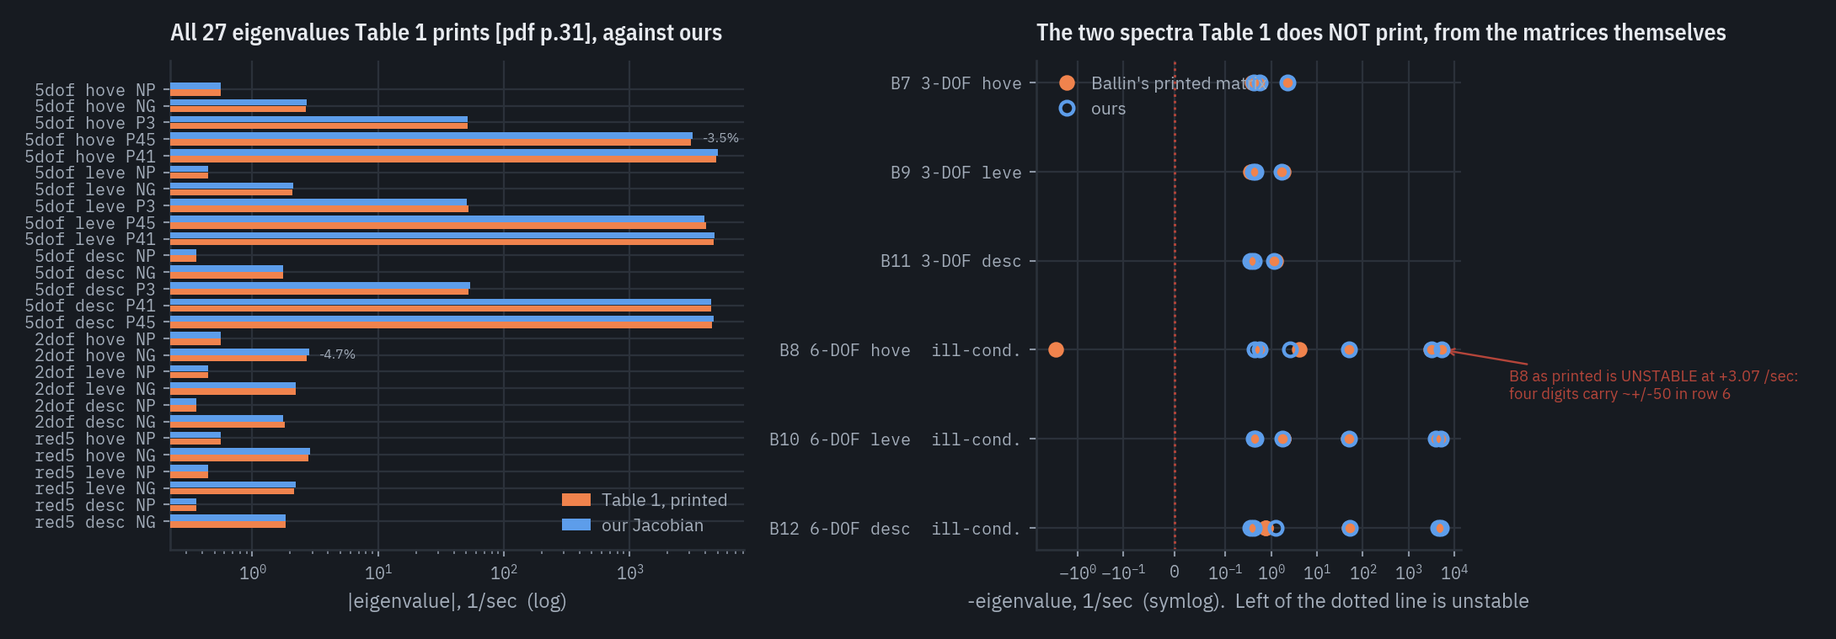
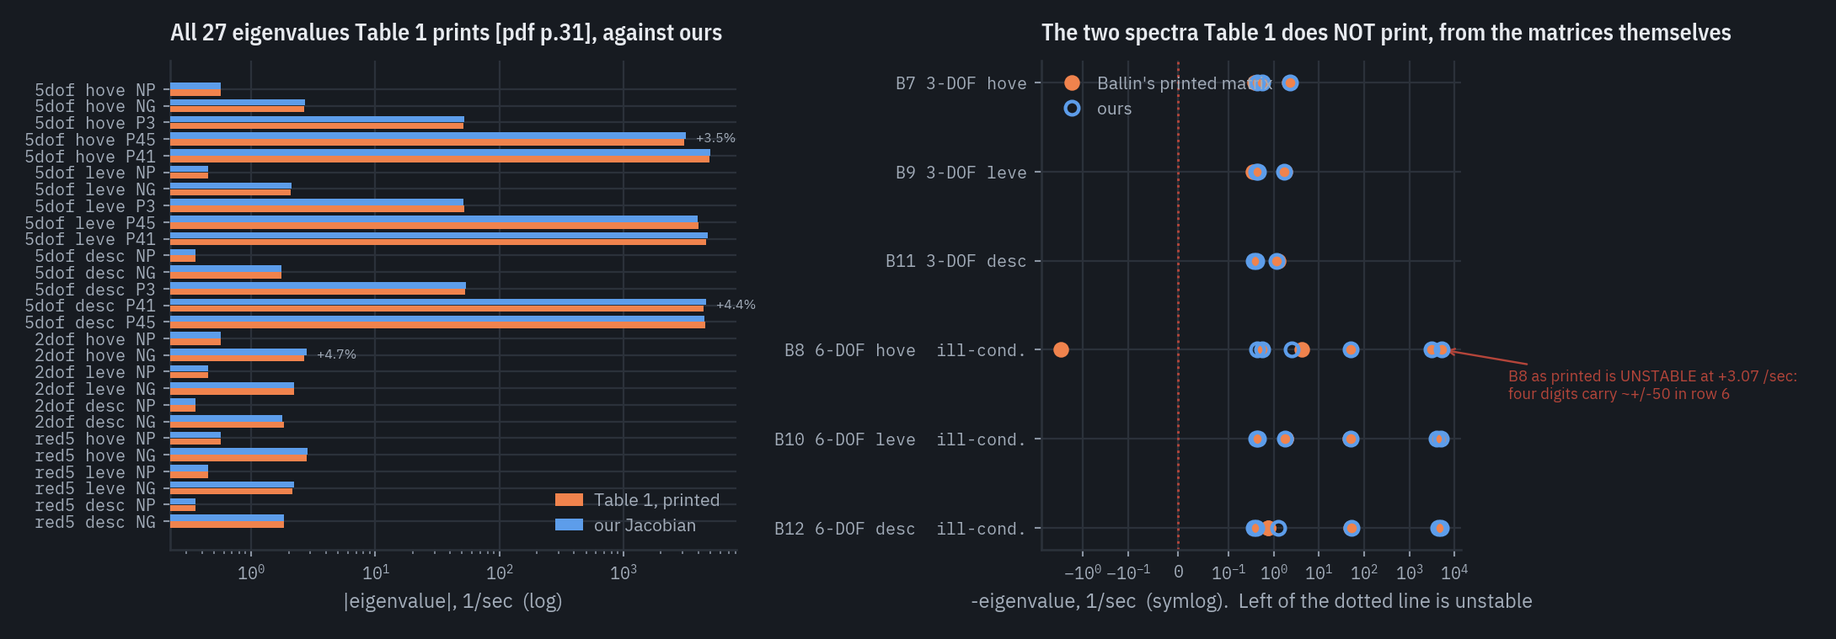
each comparison at the speed the paper gives it; Table 1 paired by dominant state, all 27 modes tested
Speed, read from the page images: NP_des = 20900 (Table A.1, pdf p.55) for
Figures 6-8 (#35) and 9-10 ("trim the power turbine at the design speed",
pdf p.39); 20895 (Table B.1, pdf p.67) for Table B.1, Table 1 and Appendix B.
- the GE-model comparison on Figures 6-8 moves to NP_des (NP_GE_RPM goes)
- report.py's Table 1 and Appendix B use test_all_dof_models._model, the
  20895 models the tests use, instead of solving at NP_des themselves

Table 1 on the site was paired by position in a sorted spectrum, which
tests/test_linear forbids. It now pairs by dominant state (shared
participation(), also used by test_discrete_map), with the tests' sign
convention. New test_every_printed_table_1_mode asserts all 27 printed modes
within EIGENVALUE_TOL_PCT, so SCOPE's 27-mode row is now true by test.

Site: Table 1 rms 1.75 -> 1.94 %, worst 4.70 % unchanged (sign now the
tests'); Appendix B A rms 6.262 -> 6.262, b 6.408 -> 6.405. Model checksum
identical; suite passes.

Claude-Session: https://claude.ai/code/session_01RjvrKad8gE6F4A3xardmyd

diff --git a/site/index.html b/site/index.html
@@ -589,7 +589,7 @@ the metering valve:  WFMV = HMUSEL &times; PS3L.</div>
   <div class="scroll"><table>
     <thead><tr><th scope="col">Comparison</th><th scope="col">rms %</th>
       <th scope="col">mean %</th><th scope="col">worst %</th><th scope="col"></th></tr></thead>
-    <tbody><tr><th scope="row">Table B.1, the printed engine state<span class="sub">21 numbers</span></th><td class="mono">0.222</td><td class="mono">-0.087</td><td class="mono strong">-0.806</td><td class="note">worst SHP &minus;0.81 % at descent</td></tr><tr><th scope="row">Table 1, printed eigenvalues<span class="sub">27 modes</span></th><td class="mono">1.754</td><td class="mono">-0.552</td><td class="mono strong">-4.701</td><td class="note">worst &minus;4.7 % on the 2-DOF NG mode at hover</td></tr><tr><th scope="row">Appendix B, matrix A<span class="sub">158 non-zero</span></th><td class="mono">6.262</td><td class="mono">-0.356</td><td class="mono strong">-33.749</td><td class="note">every one of the 206 non-zero elements is compared</td></tr><tr><th scope="row">Appendix B, fuel column b<span class="sub">42 non-zero</span></th><td class="mono">6.408</td><td class="mono">-1.337</td><td class="mono strong">24.299</td><td class="note">the 6-DOF half carries the heat sink's deficit</td></tr><tr><th scope="row">Closed loop against Table B.1<span class="sub">15 numbers</span></th><td class="mono">0.081</td><td class="mono">0.020</td><td class="mono strong">0.245</td><td class="note">fuel flow is an <em>output</em> here, not an input</td></tr></tbody>
+    <tbody><tr><th scope="row">Table B.1, the printed engine state<span class="sub">21 numbers</span></th><td class="mono">0.222</td><td class="mono">-0.087</td><td class="mono strong">-0.806</td><td class="note">worst SHP &minus;0.81 % at descent</td></tr><tr><th scope="row">Table 1, printed eigenvalues<span class="sub">27 modes</span></th><td class="mono">1.937</td><td class="mono">0.558</td><td class="mono strong">4.701</td><td class="note">worst +4.7 % on the 2-DOF NG mode at hover</td></tr><tr><th scope="row">Appendix B, matrix A<span class="sub">158 non-zero</span></th><td class="mono">6.262</td><td class="mono">-0.354</td><td class="mono strong">-33.749</td><td class="note">every one of the 206 non-zero elements is compared</td></tr><tr><th scope="row">Appendix B, fuel column b<span class="sub">42 non-zero</span></th><td class="mono">6.405</td><td class="mono">-1.330</td><td class="mono strong">24.299</td><td class="note">the 6-DOF half carries the heat sink's deficit</td></tr><tr><th scope="row">Closed loop against Table B.1<span class="sub">15 numbers</span></th><td class="mono">0.081</td><td class="mono">0.020</td><td class="mono strong">0.245</td><td class="note">fuel flow is an <em>output</em> here, not an input</td></tr></tbody>
   </table></div>
   <div class="legend">
     <span><i class="swatch" style="background:var(--ours)"></i>our model</span>
@@ -618,7 +618,7 @@ the metering valve:  WFMV = HMUSEL &times; PS3L.</div>
     <thead><tr><th scope="col">Model</th><th scope="col">Trim</th><th scope="col">Mode</th>
       <th scope="col">printed 1/s</th><th scope="col">ours 1/s</th>
       <th scope="col">deviation %</th></tr></thead>
-    <tbody><tr><td>5-DOF</td><td>hover</td><td class="mono">NP</td><td class="mono">-0.565</td><td class="mono">-0.565</td><td class="mono dev">+0.01<span class="bar"><i class="pos" style="left:50%;width:0.018758873018626814%"></i></span></td></tr><tr><td>5-DOF</td><td>hover</td><td class="mono">NG</td><td class="mono">-2.66</td><td class="mono">-2.691</td><td class="mono dev">-1.18<span class="bar"><i class="neg" style="left:46.08155520486806%;width:3.9184447951319408%"></i></span></td></tr><tr><td>5-DOF</td><td>hover</td><td class="mono">P3</td><td class="mono">-51.6</td><td class="mono">-51.7</td><td class="mono dev">-0.19<span class="bar"><i class="neg" style="left:49.373238863723394%;width:0.6267611362766063%"></i></span></td></tr><tr><td>5-DOF</td><td>hover</td><td class="mono">P45</td><td class="mono">-3,060</td><td class="mono">-3,166</td><td class="mono dev">-3.47<span class="bar"><i class="neg" style="left:38.41996435137444%;width:11.580035648625563%"></i></span></td></tr><tr><td>5-DOF</td><td>hover</td><td class="mono">P41</td><td class="mono">-4,900</td><td class="mono">-5,007</td><td class="mono dev">-2.18<span class="bar"><i class="neg" style="left:42.72265290363468%;width:7.277347096365318%"></i></span></td></tr><tr><td>5-DOF</td><td>level 80 kt</td><td class="mono">NP</td><td class="mono">-0.446</td><td class="mono">-0.4461</td><td class="mono dev">-0.02<span class="bar"><i class="neg" style="left:49.94722333866804%;width:0.052776661331961974%"></i></span></td></tr><tr><td>5-DOF</td><td>level 80 kt</td><td class="mono">NG</td><td class="mono">-2.08</td><td class="mono">-2.111</td><td class="mono dev">-1.51<span class="bar"><i class="neg" style="left:44.95978613144975%;width:5.04021386855025%"></i></span></td></tr><tr><td>5-DOF</td><td>level 80 kt</td><td class="mono">P3</td><td class="mono">-52.2</td><td class="mono">-50.97</td><td class="mono dev">+2.35<span class="bar"><i class="pos" style="left:50%;width:7.834495283069155%"></i></span></td></tr><tr><td>5-DOF</td><td>level 80 kt</td><td class="mono">P45</td><td class="mono">-4,040</td><td class="mono">-3,948</td><td class="mono dev">+2.28<span class="bar"><i class="pos" style="left:50%;width:7.6072783608335%"></i></span></td></tr><tr><td>5-DOF</td><td>level 80 kt</td><td class="mono">P41</td><td class="mono">-4,640</td><td class="mono">-4,736</td><td class="mono dev">-2.08<span class="bar"><i class="neg" style="left:43.07666710398497%;width:6.923332896015031%"></i></span></td></tr><tr><td>5-DOF</td><td>descent 80 kt</td><td class="mono">NP</td><td class="mono">-0.357</td><td class="mono">-0.3567</td><td class="mono dev">+0.10<span class="bar"><i class="pos" style="left:50%;width:0.31695347223621795%"></i></span></td></tr><tr><td>5-DOF</td><td>descent 80 kt</td><td class="mono">NG</td><td class="mono">-1.75</td><td class="mono">-1.755</td><td class="mono dev">-0.28<span class="bar"><i class="neg" style="left:49.06841811883851%;width:0.9315818811614918%"></i></span></td></tr><tr><td>5-DOF</td><td>descent 80 kt</td><td class="mono">P3</td><td class="mono">-52.6</td><td class="mono">-53.56</td><td class="mono dev">-1.83<span class="bar"><i class="neg" style="left:43.90775465974%;width:6.092245340259997%"></i></span></td></tr><tr><td>5-DOF</td><td>descent 80 kt</td><td class="mono">P41</td><td class="mono">-4,430</td><td class="mono">-4,445</td><td class="mono dev">-0.34<span class="bar"><i class="neg" style="left:48.85939057716919%;width:1.1406094228308106%"></i></span></td></tr><tr><td>5-DOF</td><td>descent 80 kt</td><td class="mono">P45</td><td class="mono">-4,530</td><td class="mono">-4,624</td><td class="mono dev">-2.07<span class="bar"><i class="neg" style="left:43.09674966352933%;width:6.903250336470672%"></i></span></td></tr><tr><td>2-DOF</td><td>hover</td><td class="mono">NP</td><td class="mono">-0.565</td><td class="mono">-0.565</td><td class="mono dev">+0.01<span class="bar"><i class="pos" style="left:50%;width:0.018758873018626814%"></i></span></td></tr><tr><td>2-DOF</td><td>hover</td><td class="mono">NG</td><td class="mono">-2.69</td><td class="mono">-2.816</td><td class="mono dev">-4.70<span class="bar"><i class="neg" style="left:34.328345782046256%;width:15.671654217953748%"></i></span></td></tr><tr><td>2-DOF</td><td>level 80 kt</td><td class="mono">NP</td><td class="mono">-0.446</td><td class="mono">-0.4461</td><td class="mono dev">-0.02<span class="bar"><i class="neg" style="left:49.94722333866804%;width:0.052776661331961974%"></i></span></td></tr><tr><td>2-DOF</td><td>level 80 kt</td><td class="mono">NG</td><td class="mono">-2.23</td><td class="mono">-2.202</td><td class="mono dev">+1.27<span class="bar"><i class="pos" style="left:50%;width:4.228318639295807%"></i></span></td></tr><tr><td>2-DOF</td><td>descent 80 kt</td><td class="mono">NP</td><td class="mono">-0.357</td><td class="mono">-0.3567</td><td class="mono dev">+0.10<span class="bar"><i class="pos" style="left:50%;width:0.3169534722457549%"></i></span></td></tr><tr><td>2-DOF</td><td>descent 80 kt</td><td class="mono">NG</td><td class="mono">-1.82</td><td class="mono">-1.768</td><td class="mono dev">+2.85<span class="bar"><i class="pos" style="left:50%;width:9.51124665659346%"></i></span></td></tr><tr><td>reduced-5</td><td>hover</td><td class="mono">NP</td><td class="mono">-0.565</td><td class="mono">-0.565</td><td class="mono dev">+0.01<span class="bar"><i class="pos" style="left:50%;width:0.018758873018626814%"></i></span></td></tr><tr><td>reduced-5</td><td>hover</td><td class="mono">NG</td><td class="mono">-2.81</td><td class="mono">-2.861</td><td class="mono dev">-1.82<span class="bar"><i class="neg" style="left:43.9200137915478%;width:6.0799862084522%"></i></span></td></tr><tr><td>reduced-5</td><td>level 80 kt</td><td class="mono">NP</td><td class="mono">-0.446</td><td class="mono">-0.4461</td><td class="mono dev">-0.02<span class="bar"><i class="neg" style="left:49.94722333866804%;width:0.052776661331961974%"></i></span></td></tr><tr><td>reduced-5</td><td>level 80 kt</td><td class="mono">NG</td><td class="mono">-2.16</td><td class="mono">-2.206</td><td class="mono dev">-2.11<span class="bar"><i class="neg" style="left:42.97163933992446%;width:7.028360660075543%"></i></span></td></tr><tr><td>reduced-5</td><td>descent 80 kt</td><td class="mono">NP</td><td class="mono">-0.357</td><td class="mono">-0.3567</td><td class="mono dev">+0.10<span class="bar"><i class="pos" style="left:50%;width:0.31695347223621795%"></i></span></td></tr><tr><td>reduced-5</td><td>descent 80 kt</td><td class="mono">NG</td><td class="mono">-1.83</td><td class="mono">-1.833</td><td class="mono dev">-0.14<span class="bar"><i class="neg" style="left:49.53876314734629%;width:0.4612368526537128%"></i></span></td></tr></tbody>
+    <tbody><tr><td>5-DOF</td><td>hover</td><td class="mono">NP</td><td class="mono">-0.565</td><td class="mono">-0.565</td><td class="mono dev">+0.01<span class="bar"><i class="pos" style="left:50%;width:0.027707135832274358%"></i></span></td></tr><tr><td>5-DOF</td><td>hover</td><td class="mono">NG</td><td class="mono">-2.66</td><td class="mono">-2.691</td><td class="mono dev">+1.18<span class="bar"><i class="pos" style="left:50%;width:3.9184447951319408%"></i></span></td></tr><tr><td>5-DOF</td><td>hover</td><td class="mono">P3</td><td class="mono">-51.6</td><td class="mono">-51.7</td><td class="mono dev">+0.19<span class="bar"><i class="pos" style="left:50%;width:0.6267611362766063%"></i></span></td></tr><tr><td>5-DOF</td><td>hover</td><td class="mono">P45</td><td class="mono">-3,060</td><td class="mono">-3,166</td><td class="mono dev">+3.47<span class="bar"><i class="pos" style="left:50%;width:11.580035648625563%"></i></span></td></tr><tr><td>5-DOF</td><td>hover</td><td class="mono">P41</td><td class="mono">-4,900</td><td class="mono">-5,007</td><td class="mono dev">+2.18<span class="bar"><i class="pos" style="left:50%;width:7.277347096365318%"></i></span></td></tr><tr><td>5-DOF</td><td>level 80 kt</td><td class="mono">NP</td><td class="mono">-0.446</td><td class="mono">-0.4461</td><td class="mono dev">+0.03<span class="bar"><i class="pos" style="left:50%;width:0.08846901754094652%"></i></span></td></tr><tr><td>5-DOF</td><td>level 80 kt</td><td class="mono">NG</td><td class="mono">-2.08</td><td class="mono">-2.111</td><td class="mono dev">+1.51<span class="bar"><i class="pos" style="left:50%;width:5.04021386855025%"></i></span></td></tr><tr><td>5-DOF</td><td>level 80 kt</td><td class="mono">P3</td><td class="mono">-52.2</td><td class="mono">-50.97</td><td class="mono dev">-2.35<span class="bar"><i class="neg" style="left:42.16550471693085%;width:7.834495283069155%"></i></span></td></tr><tr><td>5-DOF</td><td>level 80 kt</td><td class="mono">P45</td><td class="mono">-4,040</td><td class="mono">-3,948</td><td class="mono dev">-2.28<span class="bar"><i class="neg" style="left:42.3927216391665%;width:7.6072783608335%"></i></span></td></tr><tr><td>5-DOF</td><td>level 80 kt</td><td class="mono">P41</td><td class="mono">-4,640</td><td class="mono">-4,736</td><td class="mono dev">+2.08<span class="bar"><i class="pos" style="left:50%;width:6.923332896015031%"></i></span></td></tr><tr><td>5-DOF</td><td>descent 80 kt</td><td class="mono">NP</td><td class="mono">-0.357</td><td class="mono">-0.3567</td><td class="mono dev">-0.09<span class="bar"><i class="neg" style="left:49.707280537938765%;width:0.29271946206123545%"></i></span></td></tr><tr><td>5-DOF</td><td>descent 80 kt</td><td class="mono">NG</td><td class="mono">-1.75</td><td class="mono">-1.755</td><td class="mono dev">+0.28<span class="bar"><i class="pos" style="left:50%;width:0.9315818811614918%"></i></span></td></tr><tr><td>5-DOF</td><td>descent 80 kt</td><td class="mono">P3</td><td class="mono">-52.6</td><td class="mono">-53.56</td><td class="mono dev">+1.83<span class="bar"><i class="pos" style="left:50%;width:6.092245340259997%"></i></span></td></tr><tr><td>5-DOF</td><td>descent 80 kt</td><td class="mono">P41</td><td class="mono">-4,430</td><td class="mono">-4,624</td><td class="mono dev">+4.38<span class="bar"><i class="pos" style="left:50%;width:14.583534392222452%"></i></span></td></tr><tr><td>5-DOF</td><td>descent 80 kt</td><td class="mono">P45</td><td class="mono">-4,530</td><td class="mono">-4,445</td><td class="mono dev">-1.87<span class="bar"><i class="neg" style="left:43.757078677661625%;width:6.242921322338376%"></i></span></td></tr><tr><td>2-DOF</td><td>hover</td><td class="mono">NP</td><td class="mono">-0.565</td><td class="mono">-0.565</td><td class="mono dev">+0.01<span class="bar"><i class="pos" style="left:50%;width:0.027707135832274358%"></i></span></td></tr><tr><td>2-DOF</td><td>hover</td><td class="mono">NG</td><td class="mono">-2.69</td><td class="mono">-2.816</td><td class="mono dev">+4.70<span class="bar"><i class="pos" style="left:50%;width:15.671654217953748%"></i></span></td></tr><tr><td>2-DOF</td><td>level 80 kt</td><td class="mono">NP</td><td class="mono">-0.446</td><td class="mono">-0.4461</td><td class="mono dev">+0.03<span class="bar"><i class="pos" style="left:50%;width:0.08846901754094652%"></i></span></td></tr><tr><td>2-DOF</td><td>level 80 kt</td><td class="mono">NG</td><td class="mono">-2.23</td><td class="mono">-2.202</td><td class="mono dev">-1.27<span class="bar"><i class="neg" style="left:45.77168136070419%;width:4.228318639295807%"></i></span></td></tr><tr><td>2-DOF</td><td>descent 80 kt</td><td class="mono">NP</td><td class="mono">-0.357</td><td class="mono">-0.3567</td><td class="mono dev">-0.09<span class="bar"><i class="neg" style="left:49.70728053792923%;width:0.2927194620707724%"></i></span></td></tr><tr><td>2-DOF</td><td>descent 80 kt</td><td class="mono">NG</td><td class="mono">-1.82</td><td class="mono">-1.768</td><td class="mono dev">-2.85<span class="bar"><i class="neg" style="left:40.48875334340654%;width:9.51124665659346%"></i></span></td></tr><tr><td>reduced-5</td><td>hover</td><td class="mono">NP</td><td class="mono">-0.565</td><td class="mono">-0.565</td><td class="mono dev">+0.01<span class="bar"><i class="pos" style="left:50%;width:0.027707135832274358%"></i></span></td></tr><tr><td>reduced-5</td><td>hover</td><td class="mono">NG</td><td class="mono">-2.81</td><td class="mono">-2.861</td><td class="mono dev">+1.82<span class="bar"><i class="pos" style="left:50%;width:6.0799862084522%"></i></span></td></tr><tr><td>reduced-5</td><td>level 80 kt</td><td class="mono">NP</td><td class="mono">-0.446</td><td class="mono">-0.4461</td><td class="mono dev">+0.03<span class="bar"><i class="pos" style="left:50%;width:0.08846901754094652%"></i></span></td></tr><tr><td>reduced-5</td><td>level 80 kt</td><td class="mono">NG</td><td class="mono">-2.16</td><td class="mono">-2.206</td><td class="mono dev">+2.11<span class="bar"><i class="pos" style="left:50%;width:7.028360660075543%"></i></span></td></tr><tr><td>reduced-5</td><td>descent 80 kt</td><td class="mono">NP</td><td class="mono">-0.357</td><td class="mono">-0.3567</td><td class="mono dev">-0.09<span class="bar"><i class="neg" style="left:49.707280537938765%;width:0.29271946206123545%"></i></span></td></tr><tr><td>reduced-5</td><td>descent 80 kt</td><td class="mono">NG</td><td class="mono">-1.83</td><td class="mono">-1.833</td><td class="mono dev">+0.14<span class="bar"><i class="pos" style="left:50%;width:0.4612368526537128%"></i></span></td></tr></tbody>
   </table></div>
   <div class="note-box"><h3>The 6-DOF matrices cannot be compared this way, and the plot says so</h3>
   <p>Row&nbsp;6 of the 6&#8209;DOF <code>A</code> differences terms of order
@@ -647,7 +647,7 @@ the metering valve:  WFMV = HMUSEL &times; PS3L.</div>
   <div class="scroll"><table>
     <thead><tr><th scope="col">Block</th><th scope="col">n</th><th scope="col">mean %</th>
       <th scope="col">rms %</th><th scope="col">worst %</th></tr></thead>
-    <tbody><tr><td class="mono">2-DOF A</td><td class="mono">9</td><td class="mono">0.38</td><td class="mono">3.16</td><td class="mono dev">-4.70<span class="bar"><i class="neg" style="left:44.12260274582276%;width:5.877397254177236%"></i></span></td></tr><tr><td class="mono">2-DOF b</td><td class="mono">6</td><td class="mono">0.23</td><td class="mono">2.02</td><td class="mono dev">-2.96<span class="bar"><i class="neg" style="left:46.30167705681638%;width:3.6983229431836206%"></i></span></td></tr><tr><td class="mono">3-DOF A</td><td class="mono">21</td><td class="mono">-2.30</td><td class="mono">8.75</td><td class="mono dev">-33.00<span class="bar"><i class="neg" style="left:8.754684112718195%;width:41.245315887281805%"></i></span></td></tr><tr><td class="mono">3-DOF b</td><td class="mono">9</td><td class="mono">2.72</td><td class="mono">11.78</td><td class="mono dev">+24.30<span class="bar"><i class="pos" style="left:50%;width:30.374213291534474%"></i></span></td></tr><tr><td class="mono">5-DOF A</td><td class="mono">54</td><td class="mono">-0.10</td><td class="mono">4.91</td><td class="mono dev">+15.68<span class="bar"><i class="pos" style="left:50%;width:19.596044425609595%"></i></span></td></tr><tr><td class="mono">5-DOF b</td><td class="mono">12</td><td class="mono">-0.03</td><td class="mono">0.08</td><td class="mono dev">-0.16<span class="bar"><i class="neg" style="left:49.805667213676756%;width:0.1943327863232429%"></i></span></td></tr><tr><td class="mono">6-DOF A</td><td class="mono">74</td><td class="mono">-0.08</td><td class="mono">6.57</td><td class="mono dev">-33.75<span class="bar"><i class="neg" style="left:7.814186812793473%;width:42.18581318720653%"></i></span></td></tr><tr><td class="mono">6-DOF b</td><td class="mono">15</td><td class="mono">-5.44</td><td class="mono">5.49</td><td class="mono dev">-6.46<span class="bar"><i class="neg" style="left:41.922802973636195%;width:8.077197026363802%"></i></span></td></tr></tbody>
+    <tbody><tr><td class="mono">2-DOF A</td><td class="mono">9</td><td class="mono">0.39</td><td class="mono">3.16</td><td class="mono dev">-4.68<span class="bar"><i class="neg" style="left:44.15110779553459%;width:5.848892204465406%"></i></span></td></tr><tr><td class="mono">2-DOF b</td><td class="mono">6</td><td class="mono">0.24</td><td class="mono">2.02</td><td class="mono dev">-2.94<span class="bar"><i class="neg" style="left:46.33070354091773%;width:3.6692964590822683%"></i></span></td></tr><tr><td class="mono">3-DOF A</td><td class="mono">21</td><td class="mono">-2.29</td><td class="mono">8.75</td><td class="mono dev">-33.00<span class="bar"><i class="neg" style="left:8.754684112718195%;width:41.245315887281805%"></i></span></td></tr><tr><td class="mono">3-DOF b</td><td class="mono">9</td><td class="mono">2.73</td><td class="mono">11.77</td><td class="mono dev">+24.30<span class="bar"><i class="pos" style="left:50%;width:30.374213291534474%"></i></span></td></tr><tr><td class="mono">5-DOF A</td><td class="mono">54</td><td class="mono">-0.09</td><td class="mono">4.91</td><td class="mono dev">+15.66<span class="bar"><i class="pos" style="left:50%;width:19.57082213425446%"></i></span></td></tr><tr><td class="mono">5-DOF b</td><td class="mono">12</td><td class="mono">-0.02</td><td class="mono">0.07</td><td class="mono dev">-0.13<span class="bar"><i class="neg" style="left:49.83553217352749%;width:0.1644678264725113%"></i></span></td></tr><tr><td class="mono">6-DOF A</td><td class="mono">74</td><td class="mono">-0.08</td><td class="mono">6.57</td><td class="mono dev">-33.75<span class="bar"><i class="neg" style="left:7.814186812793473%;width:42.18581318720653%"></i></span></td></tr><tr><td class="mono">6-DOF b</td><td class="mono">15</td><td class="mono">-5.44</td><td class="mono">5.48</td><td class="mono dev">-6.44<span class="bar"><i class="neg" style="left:41.95078162952787%;width:8.049218370472135%"></i></span></td></tr></tbody>
   </table></div>
   <div class="keyed"><h3>The 6-DOF fuel column is the one block with a shape</h3>
   <p>The 5&#8209;DOF <code>b</code> is exact to 0.2 % over twelve numbers. Turn the

diff --git a/validation/report.py b/validation/report.py
@@ -35,14 +35,12 @@ from t700 import appendix_b as ab  # noqa: E402
 from t700 import constants as c  # noqa: E402
 from t700 import trim  # noqa: E402
 from t700.engine import Ambient, frame  # noqa: E402
-from t700.linear import DOF, extract  # noqa: E402
+from t700.linear import DOF  # noqa: E402
 from t700.units import shp_from_torque, wf_pps_from_pph  # noqa: E402
 from test_all_dof_models import (  # noqa: E402
-    DQ_REQ_DNP,
-    TABLE_1_2DOF,
-    TABLE_1_5DOF,
-    TABLE_1_RED5,
-    WF_PPH,
+    TABLE_1,
+    _model,
+    modes_by_state,
 )
 from test_fuel_step import read_reference  # noqa: E402
 from test_trim_points import CASES  # noqa: E402
@@ -88,15 +86,6 @@ def save(fig, stem: str) -> None:
 TRIMS = tuple(case.name for case in CASES)
 # WF_PPH and DQ_REQ_DNP are imported from `test_all_dof_models`.
 
-TABLE_1 = {
-    t: {
-        "5dof": TABLE_1_5DOF[t],
-        "2dof": {"NG": TABLE_1_2DOF[t], "NP": TABLE_1_5DOF[t]["NP"]},
-        "red5": {"NG": TABLE_1_RED5[t], "NP": TABLE_1_5DOF[t]["NP"]},
-    }
-    for t in (1, 2, 3)
-}
-"""[TM-100991 pdf p.31], by trim and column. Each column prints the same NP mode."""
 
 STATE_B1 = {
     # [TM-100991 pdf p.67, Table B.1]
@@ -426,13 +415,10 @@ def internal_spread(b1: dict) -> dict:
 # =================================================== Table 1 and every other eigenvalue
 
 DOF_FIGS = {2: DOF.TWO, 3: DOF.THREE, 5: DOF.FIVE, 6: DOF.SIX}
-MODE_ORDER = ("NG", "NP", "P3", "P41", "P45")
 
 
 def _our_eigs(dof: DOF, t: int):
-    wf = wf_pps_from_pph(WF_PPH[t])
-    r = trim.solve(wf, c.NP_DES, AMB)
-    m = extract(r, wf, dof, AMB, j_load=c.J_LOAD_UH60A, dq_req_dnp=DQ_REQ_DNP[t])
+    m = _model(dof, t)  # Table B.1's 20895 rpm [pdf p.67], as the tests use
     return np.linalg.eigvals(m.A), m
 
 
@@ -452,23 +438,19 @@ def eigenvalues() -> dict:
     """
     out = {"table_1": [], "against_printed_matrices": [], "notes": {}}
 
-    for dofno, col in ((5, "5dof"), (2, "2dof"), (None, "red5")):
-        dof = DOF_FIGS.get(dofno, DOF.REDUCED_FIVE)
+    for dof, col in ((DOF.FIVE, "5dof"), (DOF.TWO, "2dof"), (DOF.REDUCED_FIVE, "red5")):
         for t in (1, 2, 3):
-            ev = _sorted_real(_our_eigs(dof, t)[0])
-            printed = TABLE_1[t][col]
-            pv = _sorted_real(np.array(list(printed.values())))
-            names = [k for k, _ in sorted(printed.items(), key=lambda kv: -kv[1])]
-            for i, nm in enumerate(names):
-                ours_v = float(ev[i])
+            ours = modes_by_state(_model(dof, t))  # paired by dominant state, as the tests do
+            printed = TABLE_1[t][dof]
+            for nm, pv in sorted(printed.items(), key=lambda kv: -kv[1]):
                 out["table_1"].append(
                     {
                         "model": col,
                         "trim": TRIMS[t - 1],
                         "mode": nm,
-                        "printed": float(pv[i]),
-                        "ours": ours_v,
-                        "dev_pct": float(100.0 * (ours_v - pv[i]) / abs(pv[i])),
+                        "printed": float(pv),
+                        "ours": ours[nm],
+                        "dev_pct": float(100.0 * (abs(ours[nm]) - abs(pv)) / abs(pv)),
                     }
                 )
 
@@ -592,9 +574,7 @@ def appendix_b() -> dict:
     a_dev, b_dev = [], []
     for dofno, dof in DOF_FIGS.items():
         for t in (1, 2, 3):
-            wf = wf_pps_from_pph(WF_PPH[t])
-            r = trim.solve(wf, c.NP_DES, AMB)
-            m = extract(r, wf, dof, AMB, j_load=c.J_LOAD_UH60A, dq_req_dnp=DQ_REQ_DNP[t])
+            m = _model(dof, t)  # Table B.1's 20895 rpm [pdf p.67]
             ref = ab.find(dofno, t)
             n = len(ref.states)
             for i in range(n):

diff --git a/validation/test_all_dof_models.py b/validation/test_all_dof_models.py
@@ -24,7 +24,7 @@ from t700 import trim
 from t700.engine import Ambient
 from t700.linear import DOF, extract
 from t700.units import wf_pps_from_pph
-from test_trim_points import CASES
+from test_trim_points import CASES, EIGENVALUE_TOL_PCT
 
 AMB = Ambient(14.696, 518.67)
 NP_RPM = 20895.0
@@ -52,6 +52,16 @@ TABLE_1_2DOF = {1: -2.69, 2: -2.23, 3: -1.82}
 TABLE_1_RED5 = {1: -2.81, 2: -2.16, 3: -1.83}
 """Table 1 column 5 -- the order-reduced 5-DOF, which is not in Appendix B."""
 
+TABLE_1 = {
+    t: {
+        DOF.FIVE: TABLE_1_5DOF[t],
+        DOF.TWO: {"NG": TABLE_1_2DOF[t], "NP": TABLE_1_5DOF[t]["NP"]},
+        DOF.REDUCED_FIVE: {"NG": TABLE_1_RED5[t], "NP": TABLE_1_5DOF[t]["NP"]},
+    }
+    for t in (1, 2, 3)
+}
+"""All 27 printed modes [pdf p.31], by trim and model. Each column prints the same NP mode."""
+
 FIG = {
     (DOF.TWO, 1): 1,
     (DOF.TWO, 2): 3,
@@ -66,6 +76,27 @@ FIG = {
     (DOF.SIX, 2): 10,
     (DOF.SIX, 3): 12,
 }
+
+
+def participation(A: np.ndarray) -> tuple[np.ndarray, np.ndarray]:
+    """`(eigenvalues, P)`: `P[k, i]` is state k's participation in mode i, `|V * inv(V).T|`
+    column-normalised, so it does not depend on the states' units."""
+    z, V = np.linalg.eig(A)
+    P = np.abs(V * np.linalg.inv(V).T)
+    return z, P / P.sum(axis=0, keepdims=True)
+
+
+def modes_by_state(m) -> dict[str, float]:
+    """Each mode of `m`, named by the state that dominates it: by physics, never by position
+    in a sorted spectrum (see `test_linear.py::test_sorting_would_mispair_the_slow_modes`).
+    NP is `A[1,1]` exactly: its column is zero off the diagonal."""
+    z, P = participation(m.A)
+    k_np = m.states.index("NP")
+    picks = {s: int(np.argmax(P[k])) for k, s in enumerate(m.states) if k != k_np}
+    assert len(set(picks.values())) == len(picks), f"two states claim one mode: {picks}"
+    out = {s: float(np.real(z[i])) for s, i in picks.items()}
+    out["NP"] = float(m.A[k_np, k_np])
+    return out
 
 
 def _model(dof: DOF, trim_no: int):
@@ -196,3 +227,14 @@ def test_the_descent_t41_ng_element_is_recorded_not_forgotten():
     )
     # The other two trims, imprecise but present, are bounded tighter by
     # `test_appendix_b_elements.py::test_the_three_dof_ng_column_against_b7_b9_b11`.
+
+
+@pytest.mark.parametrize("t", [1, 2, 3])
+@pytest.mark.parametrize("dof", [DOF.FIVE, DOF.TWO, DOF.REDUCED_FIVE], ids=str)
+def test_every_printed_table_1_mode(dof, t):
+    """All 27 modes of Table 1 [pdf p.31] within `EIGENVALUE_TOL_PCT` (SCOPE.md), paired by
+    dominant state. The 9 NP modes are circular: `DQ_REQ_DNP` comes from Appendix B."""
+    ours = modes_by_state(_model(dof, t))
+    dev = {k: 100.0 * (abs(ours[k]) - abs(v)) / abs(v) for k, v in TABLE_1[t][dof].items()}
+    bad = {k: round(d, 2) for k, d in dev.items() if abs(d) >= EIGENVALUE_TOL_PCT}
+    assert not bad, f"{dof} trim {t}: {bad} % against Table 1"

diff --git a/validation/test_steady_sweeps.py b/validation/test_steady_sweeps.py
@@ -35,9 +35,8 @@ is the meaningful bound; the worst is one marker on a steep stretch of the curve
 abscissa error rather than a speed disagreement."""
 
 NP_RPM = c.NP_DES
-"""Open question #35: the sweeps' power turbine speed is not printed. NP_des is the
-reading the report's own text points at; NG is decoupled from NP at steady state, so the
-choice cannot explain any deviation below."""
+"""NP_des, Table A.1 [pdf p.55]. Figures 6-8 run at design speed (#35, read off Figure 7
+itself), Ballin's curves and the GE models' alike."""
 
 
 @lru_cache(maxsize=2)
@@ -200,17 +199,13 @@ def test_which_tables_are_extrapolated_at_which_trims():
 
 # ------------------------------------------------- against the two GE models, same figures
 
-NP_GE_RPM = 20895.0
-"""The speed the GE comparison trims at: Table B.1's [pdf p.67]. The sweeps against Ballin
-above use `NP_RPM`, NP_des (#35); which one this comparison should use is not decided."""
-
 
 def _curve(fig: int, xs: np.ndarray):
     """Our model sampled at the given abscissae; returns (mask, values)."""
     if fig == 8:
-        return _ps3_at_ng(xs, 80, NP_GE_RPM)
+        return _ps3_at_ng(xs, 80, NP_RPM)
     key = "ng_pct" if fig == 6 else "shp"
-    ours = _ladder(xs, NP_GE_RPM)
+    ours = _ladder(xs, NP_RPM)
     got = [ours.get(float(v), {}).get(key) for v in xs]
     m = np.array([v is not None for v in got])
     return m, np.array([v for v in got if v is not None])

diff --git a/validation/test_discrete_map.py b/validation/test_discrete_map.py
@@ -29,6 +29,7 @@ from t700.units import wf_pps_from_pph
 # DQ_REQ_DNP is needed only for the NP mode. TABLE_1_2DOF is Table 1 column 4 [pdf p.31] --
 # Ballin's separately coded quasi-steady program.
 from test_all_dof_models import DQ_REQ_DNP, TABLE_1_2DOF, WF_PPH
+from test_all_dof_models import participation as participation_factors
 
 AMB = Ambient(14.696, 518.67)
 NP_RPM = 20895.0
@@ -60,15 +61,14 @@ def participation(A: np.ndarray, dt: float) -> tuple[np.ndarray, np.ndarray]:
     `P = |V * inv(V).T|`, column-normalised: the standard participation factor, invariant to
     the units of the states (rpm, psia and lbm/s here).
     """
-    z, V = np.linalg.eig(A)
+    z, P = participation_factors(A)
     with np.errstate(divide="ignore", invalid="ignore"):
         lam = np.where(
             (np.abs(z.imag) < 1e-12) & (z.real <= 0.0),
             np.nan,
             np.log(z.astype(complex)) / dt,
         )
-    P = np.abs(V * np.linalg.inv(V).T)
-    return lam, P / P.sum(axis=0, keepdims=True)
+    return lam, P
 
 
 def mode_of(A: np.ndarray, state: str, dt: float = FRAME_S) -> complex:

diff --git a/README.md b/README.md
@@ -27,7 +27,7 @@ than quoting a stored number.
 | | |
 |---|---|
 | **Table B.1, the printed engine state** | **rms 0.22 %** over 21 numbers — worst shaft power −0.81 % at descent |
-| **Table 1, printed eigenvalues** | all **27** modes across three model variants: **rms 1.8 %**, worst −4.7 % on the 2-DOF NG mode at hover, with the report's own ±2 % extraction step |
+| **Table 1, printed eigenvalues** | all **27** modes across three model variants: **rms 1.9 %**, worst 4.7 % (ours more damped) on the 2-DOF NG mode at hover, modes paired by dominant state, with the report's own ±2 % extraction step |
 | **Appendix B, 297 printed elements** | zero structure exact; **all 206 non-zero elements** carry a numeric per-element comparison. `A` rms 6.3 % over 158, `b` rms 6.4 % over 42 — the heat-sink rows carry the report's own TC_T41 inconsistency (open question #31) |
 | **Closed loop vs Table B.1** | **worst 0.25 %** over NG, NP, Wf, Ps3 and shaft power at three trims — **with fuel flow as an output**, averaged over the governor's own limit cycle |
 | Figure 6, NG vs fuel flow | mean 0.00 %NG, rms 0.23, worst −1.01 over all 29 printed points |
